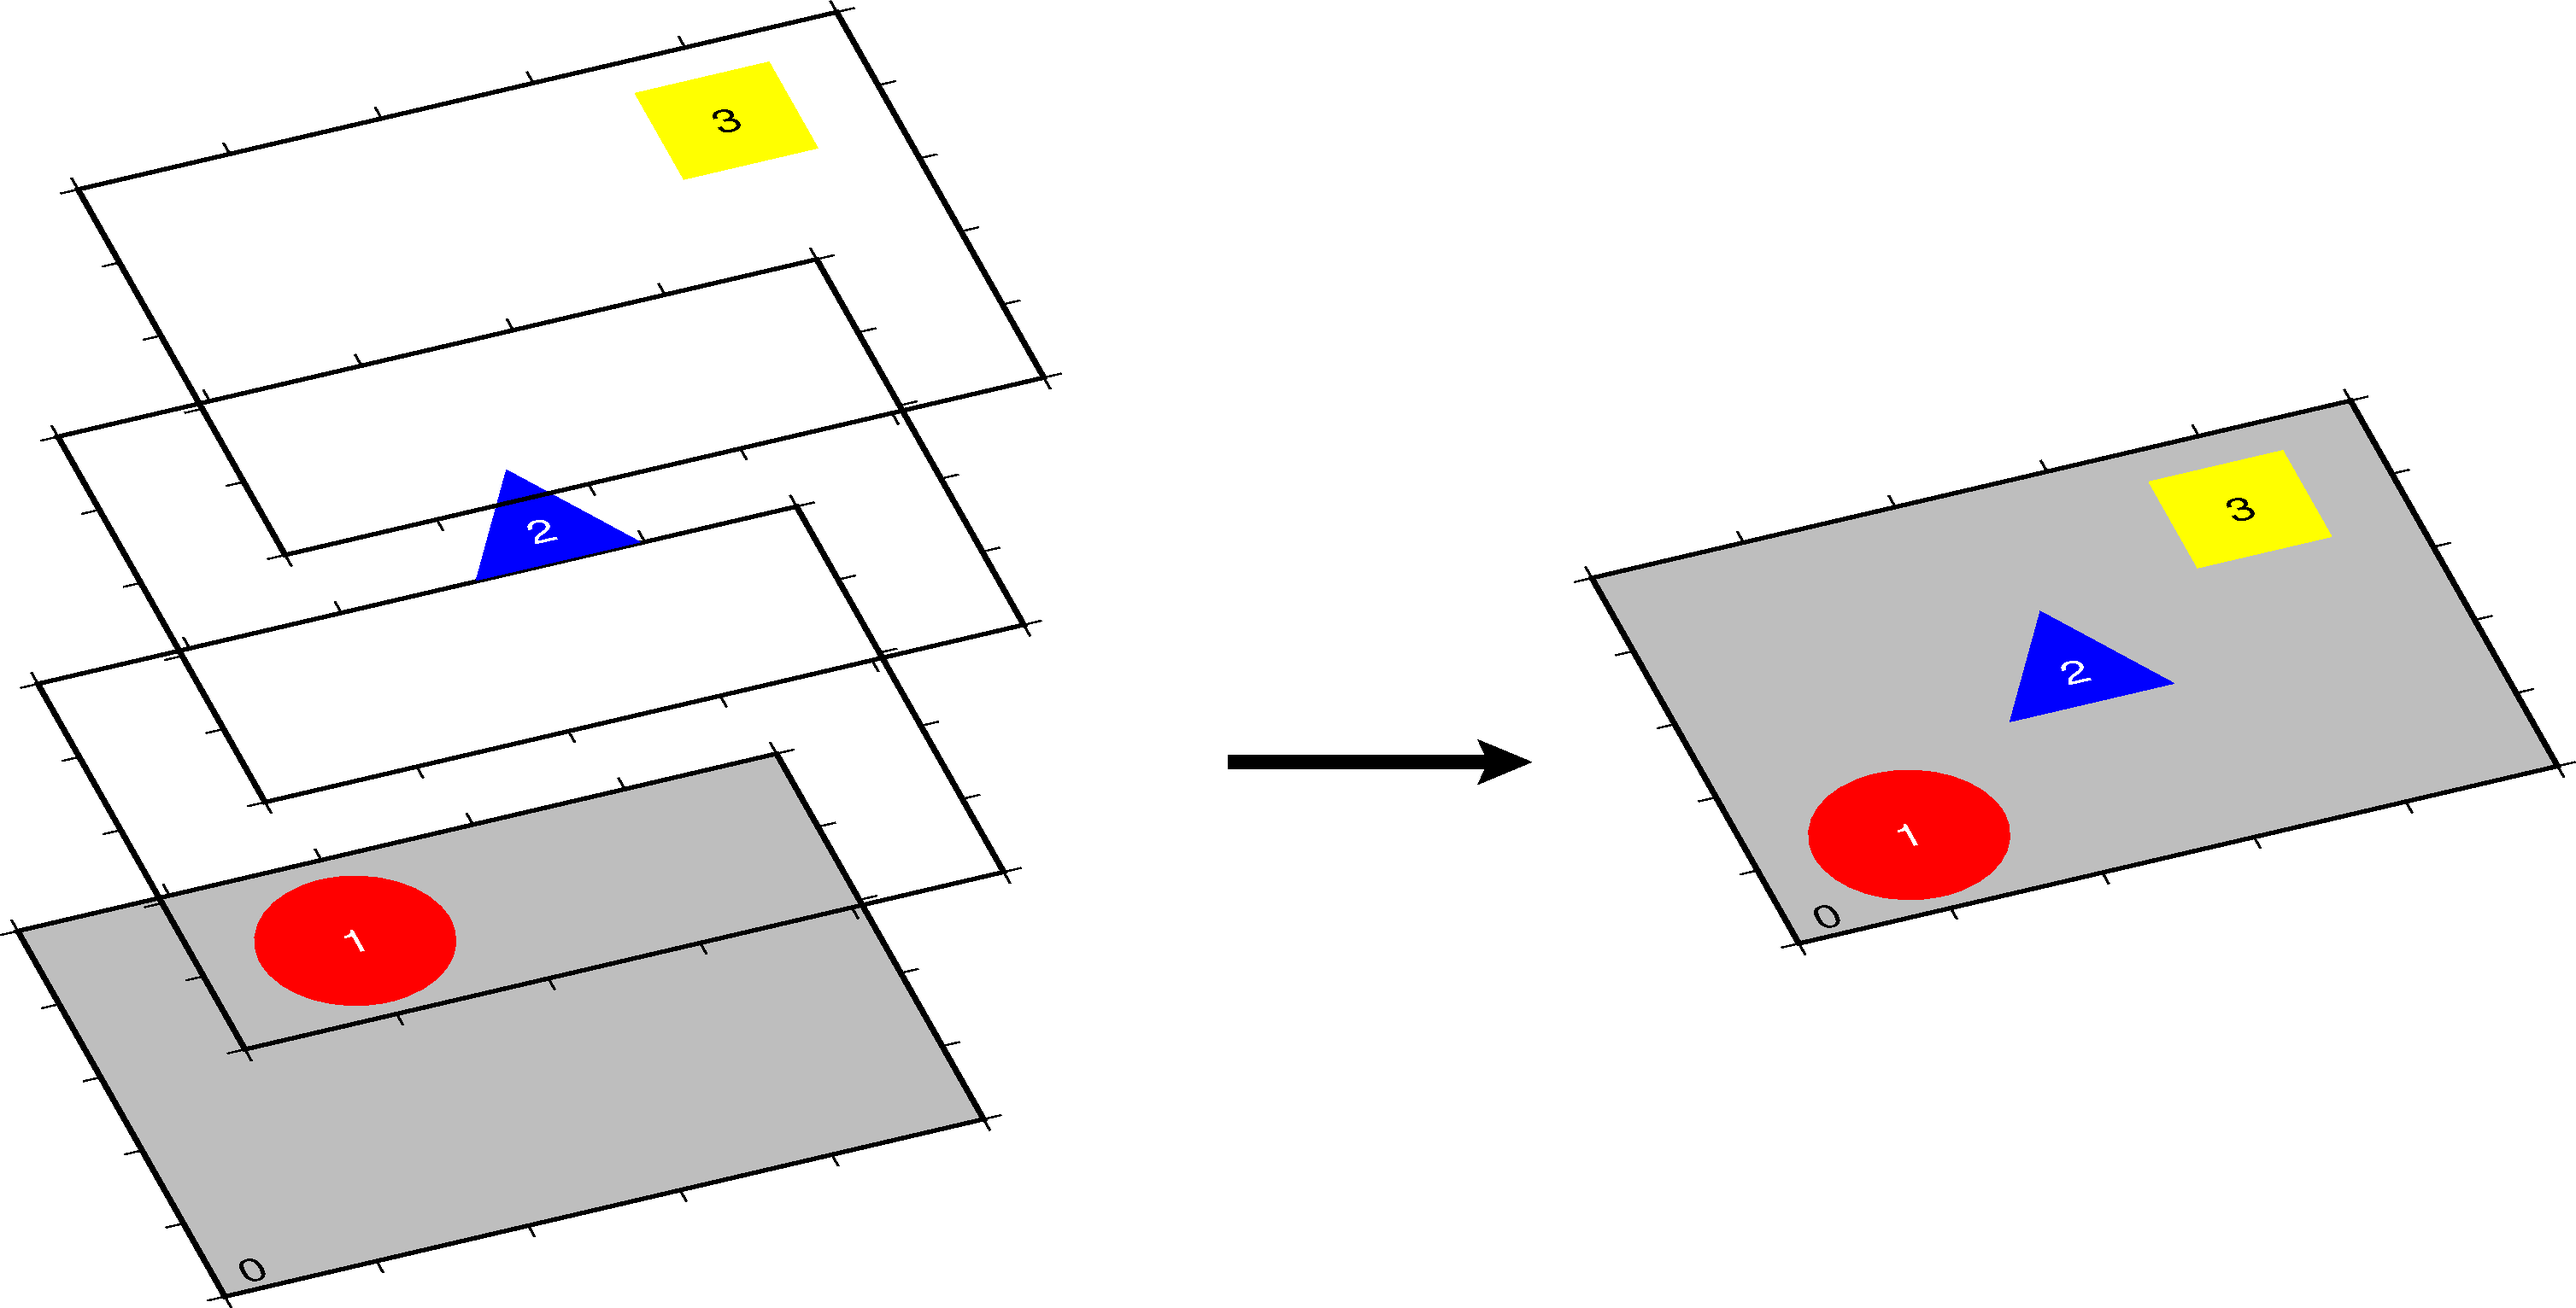
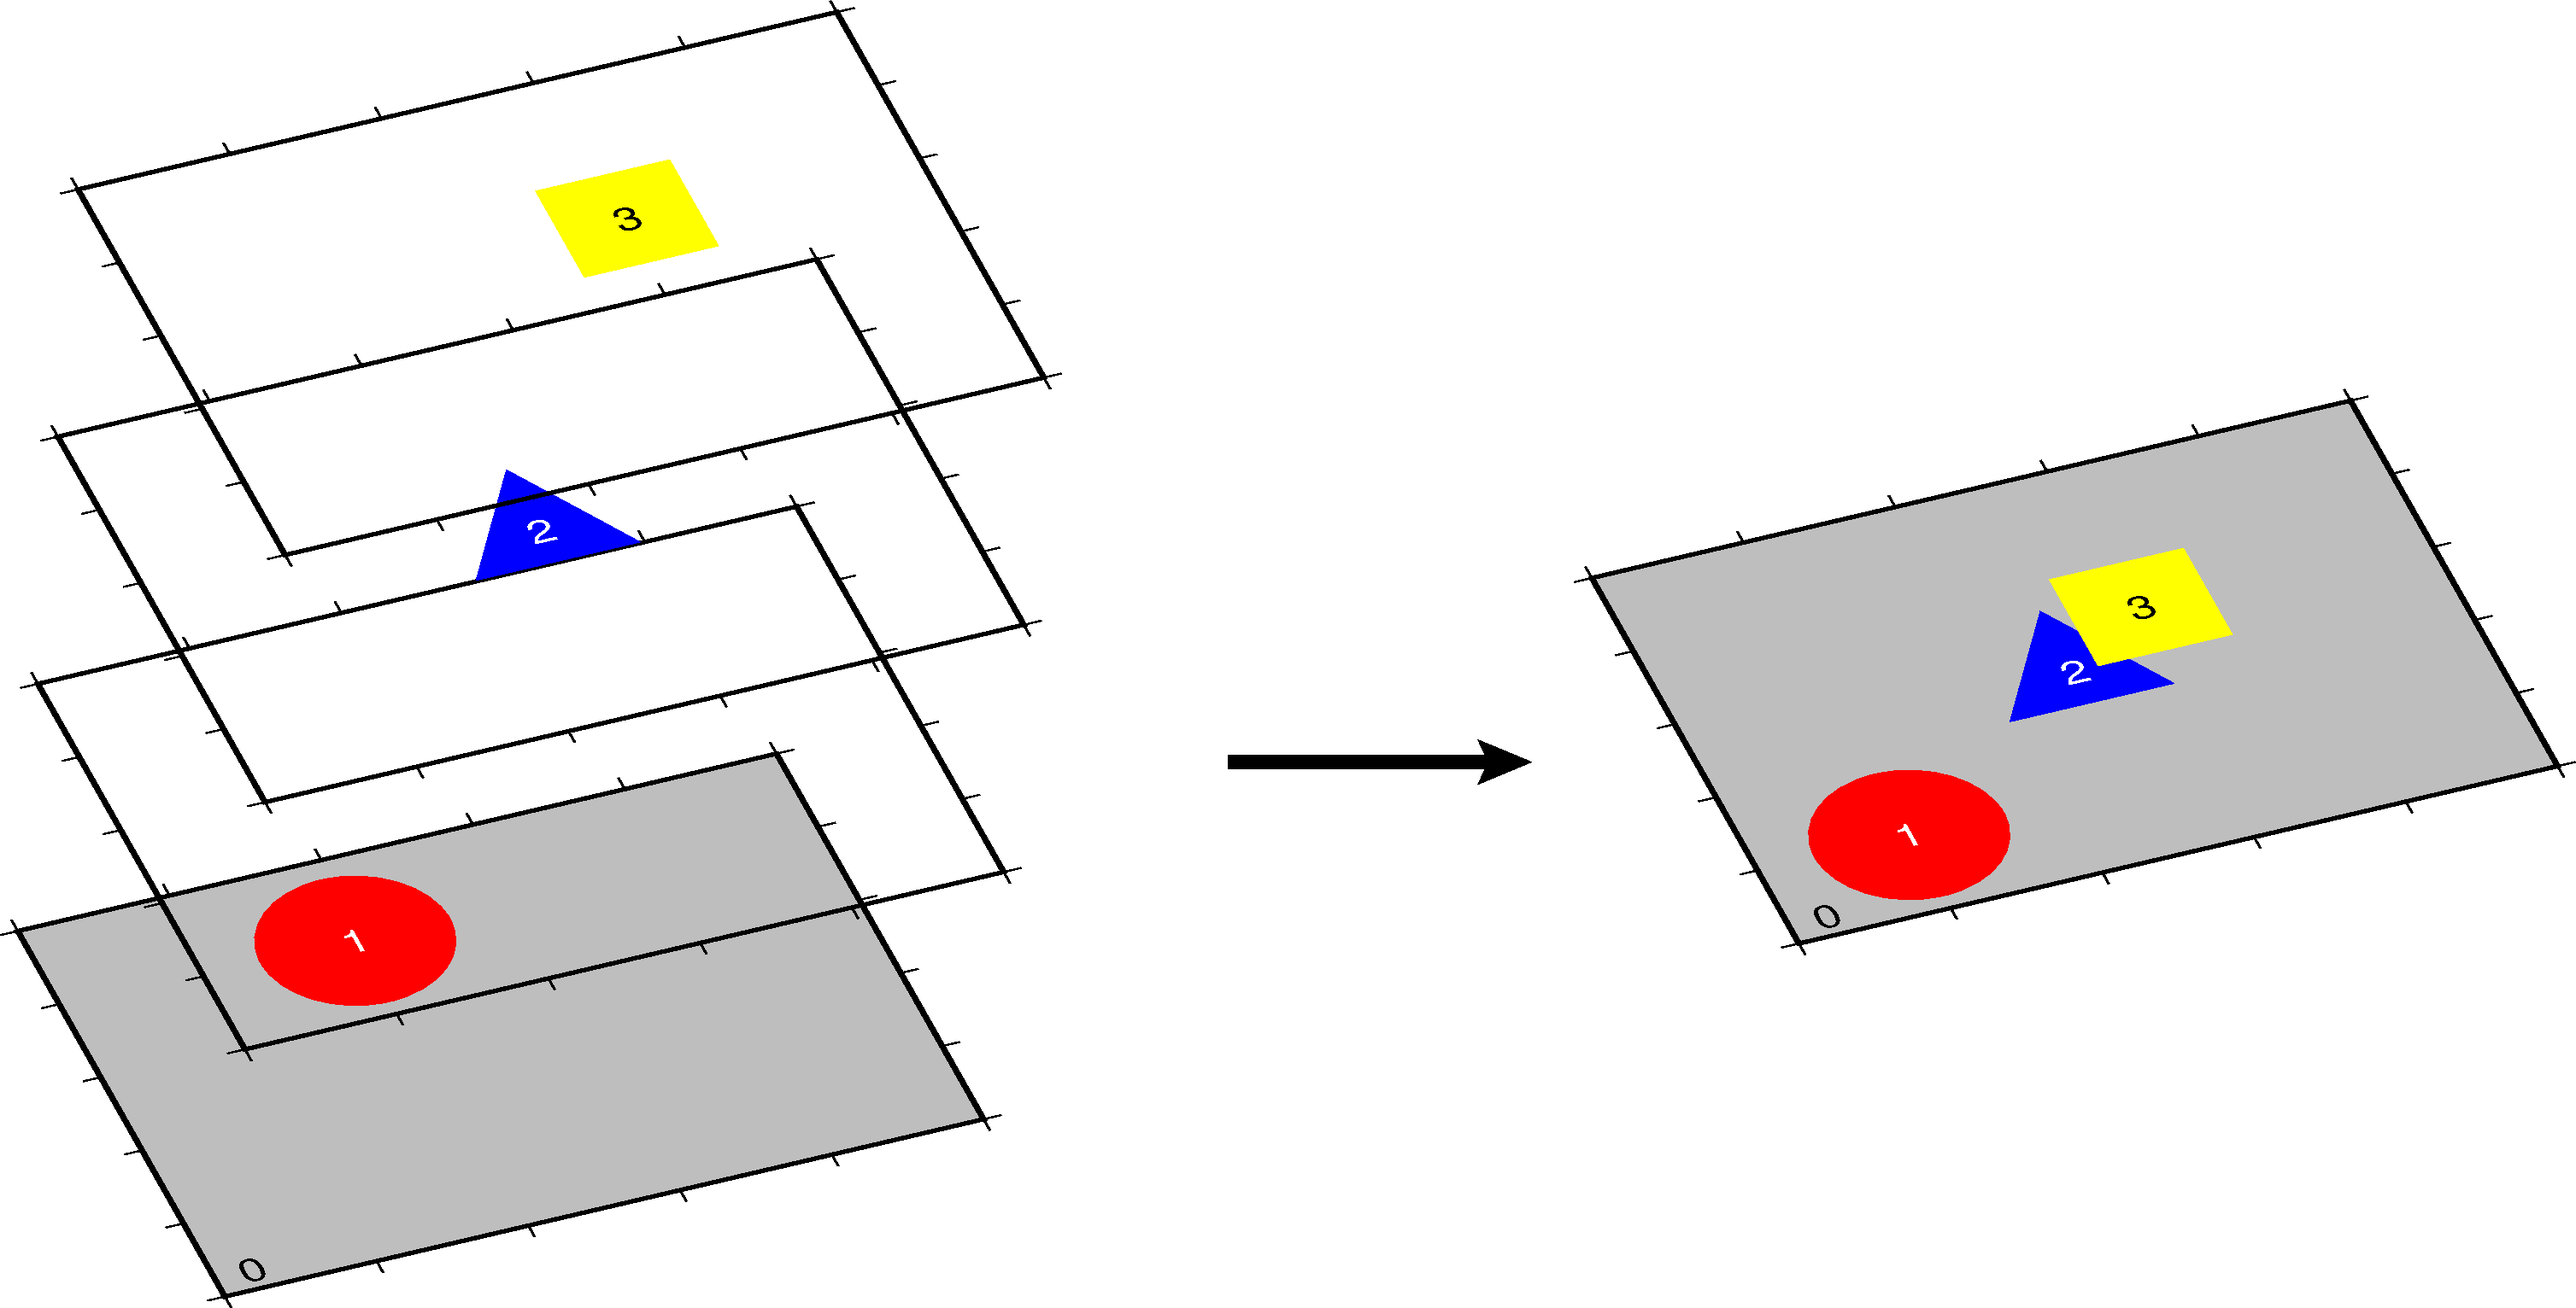
update basic_resource.md

Changed region(s): [[0.7794, 0.3375, 0.9041, 0.5215], [0.1871, 0.0307, 0.3118, 0.2148]]

diff --git a/docs/basic_resource.md b/docs/basic_resource.md
@@ -34,6 +34,18 @@ GMT是由指令輸入來製圖，那如何開啟指令輸入的環境
 ## 4.2 圖層概念
 GMT的作圖是利用一張張PS檔疊加在一起，示意圖如下:
 
+<p align="center">
+  <img src="fig/4_layers.png"/>
+</p>
+
+在示意圖的左側，可以看到4張圖層，分別是0(底色為灰色)、1(紅色圓形)、
+2(藍色三角形)、3(黃色正方形)，當這些圖層按照順序疊在一起後，就變成右側的圖，
+可以看到較後面圖層(3)中的黃色正方形，蓋在圖層(2)的藍色三角形上，
+各幾何圖形的圖層(1, 2, 3)都蓋在灰色底圖(0)上，GMT利用指令的先後順序，來達到圖層疊加的概念。
+
+而這邊還有一個重要的指令概念，是在>module-options下的**-K**及**-O**，
+當要畫multi-layer(多層圖)時，**-K**表示後面還有圖層，**-O**表示覆蓋作圖模式，
+簡單來說，第一行圖層指令只加**-K**，中間的圖層指令加**-K**及**-O**，最後一行圖層指令只加**-O**。
 
 
 ---
